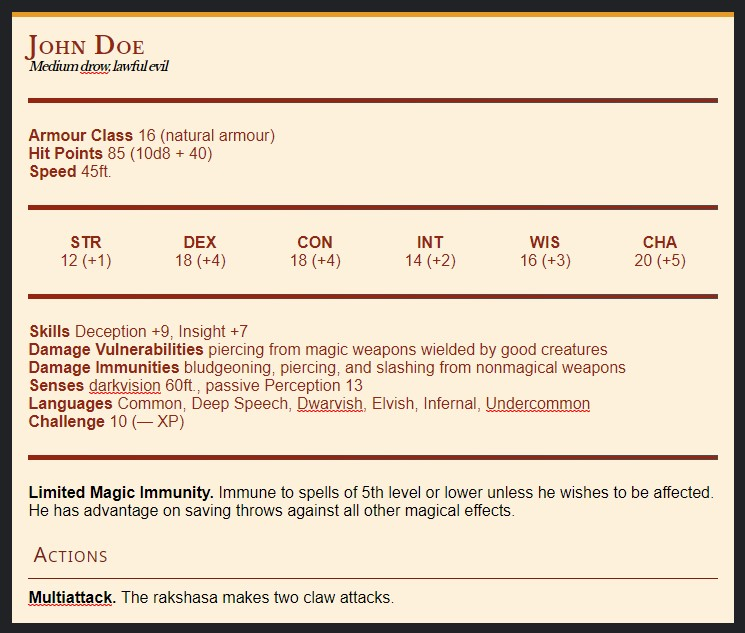
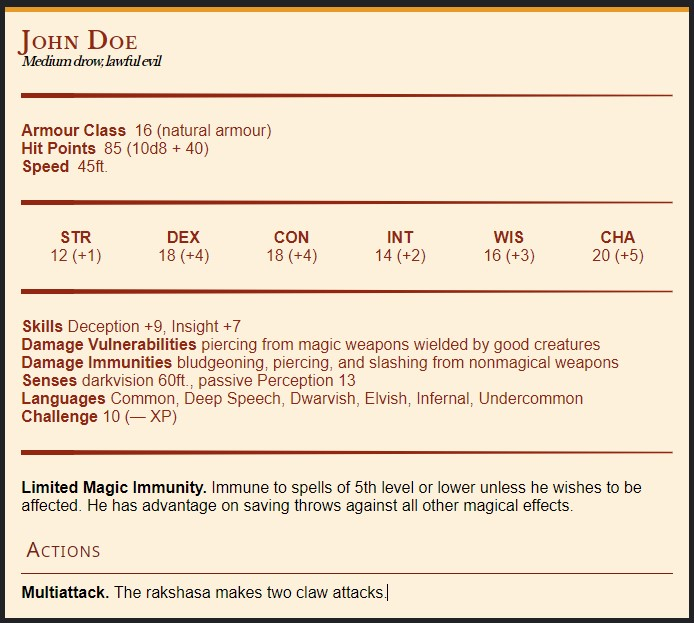
corrected horizontal rule

diff --git a/base.user.css b/base.user.css
@@ -148,7 +148,8 @@ blockquote blockquote ul li strong {color:#922610}
 blockquote hr {
   border: none;
   height: 5px;
[1 lines of base64/hex data omitted]
+  background-color: transparent;
[1 lines of base64/hex data omitted]
   background-repeat: no-repeat;
   background-size: 100% 100%;
   width: 100%;

diff --git a/Example.md b/Example.md
@@ -1,0 +1,22 @@
+> # John Doe
+> ### Medium drow, lawful evil
+> ---
+> > 1. 16 (natural armour)
+> > 1. 85 (10d8 + 40)
+> > 1. 45ft.
+> ---
+> > |         |         |         |         |         |         |
+> > | ------- | ------- | ------- | ------- | ------- | ------- |
+> > | 12 (+1) | 18 (+4) | 18 (+4) | 14 (+2) | 16 (+3) | 20 (+5) |
+> ---
+> > - **Skills** Deception +9, Insight +7
+> > - **Damage Vulnerabilities** piercing from magic weapons wielded by good creatures
+> > - **Damage Immunities** bludgeoning, piercing, and slashing from nonmagical weapons
+> > - **Senses** darkvision 60ft., passive Perception 13
+> > - **Languages** Common, Deep Speech, Dwarvish, Elvish, Infernal, Undercommon
+> > - **Challenge** 10 (— XP)
+> ---
+> **Limited Magic Immunity.** Immune to spells of 5th level or lower unless he wishes to be affected. He has advantage on saving throws against all other magical effects.
+>
+> ## Actions
+> **Multiattack.** The rakshasa makes two claw attacks.
